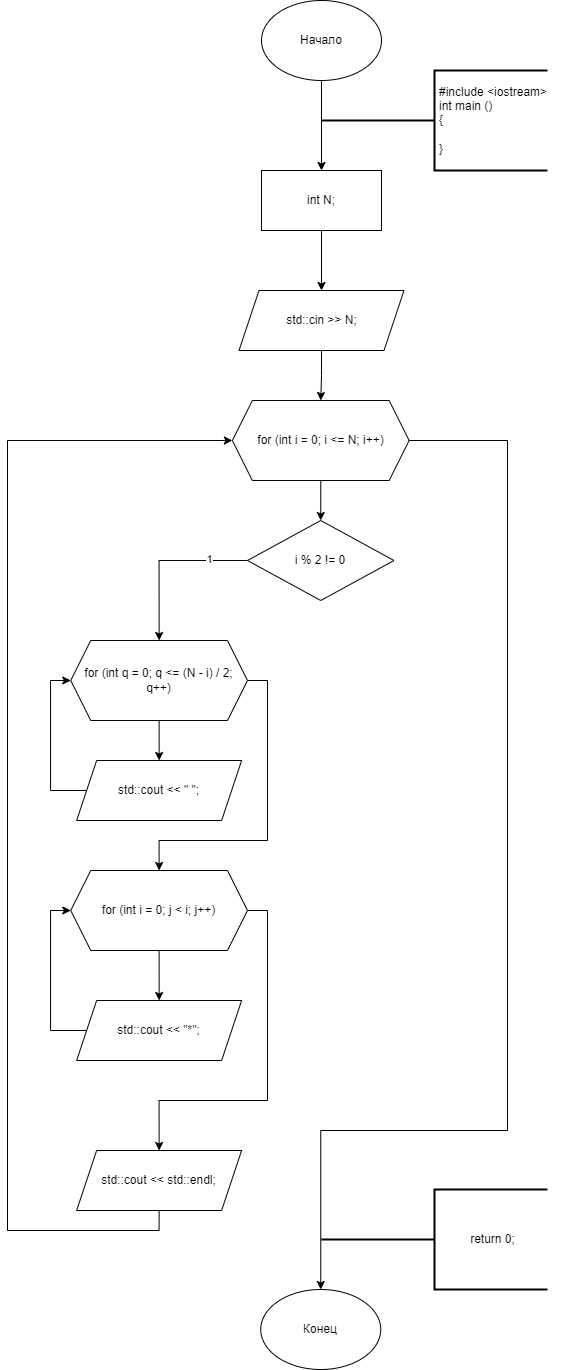
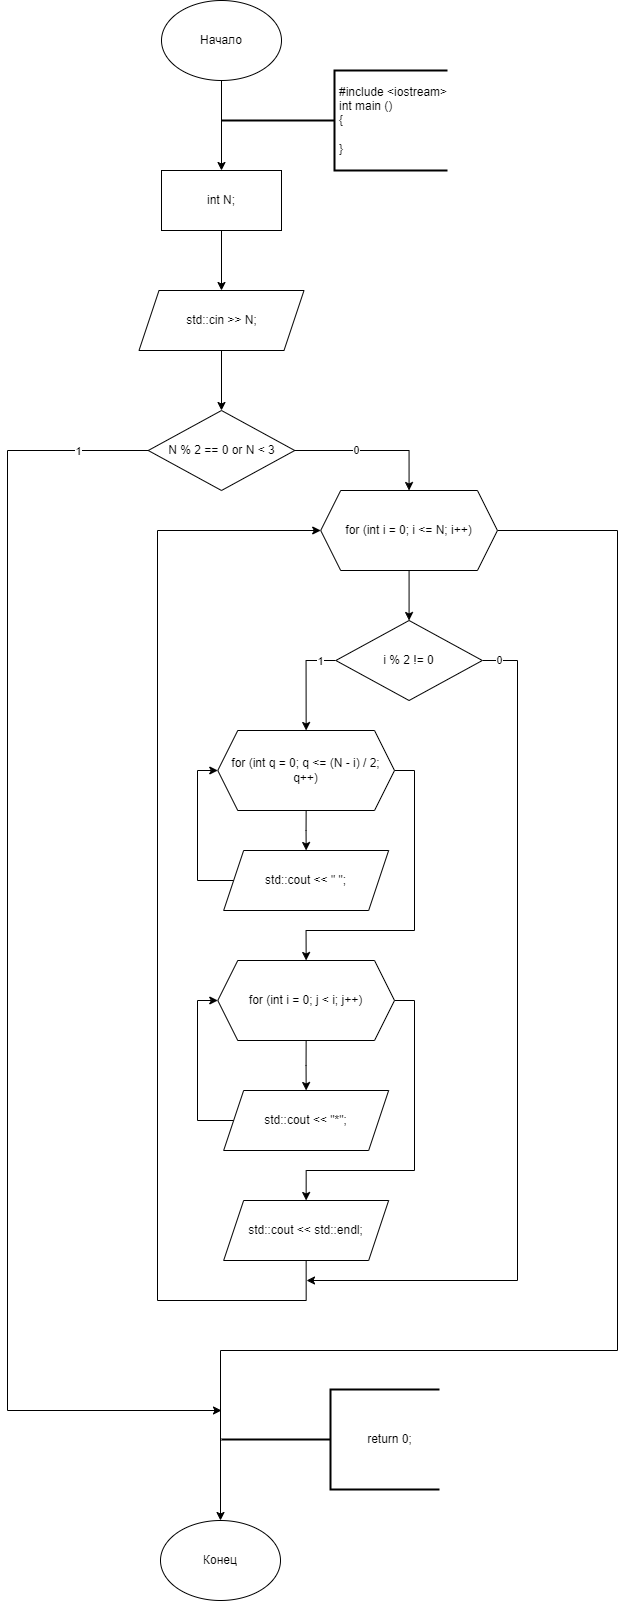
a

diff --git a/Labs_PSTU_2024/2.4/2.4.cpp b/Labs_PSTU_2024/2.4/2.4.cpp
@@ -1,20 +1,25 @@
 #include <iostream>
 int main()
-  {
-	  int N;
-	  std::cin >> N;
-	  for (int i = 0; i <= N; i++)
-	  {
-		  if (i % 2 != 0)
-		  {
-			  for (int q = 0; q <= (N - i) / 2; q++)
-			  {
-				  std::cout << " ";
-			  }
-			  for (int j = 0; j < i; j++)
-				  std::cout << "*";
-			  std::cout << std::endl;
-		  }
-	  }
-	  return 0;
-  }
+{
+	int N;
+	std::cin >> N;
+	if (N % 2 == 0 or N < 3)
+	{
+		std::cout << "error";
+		return 0;
+	}
+	for (int i = 0; i <= N; i++)
+	{
+		if (i % 2 != 0)
+		{
+			for (int q = 0; q <= (N - i) / 2; q++)
+			{
+				std::cout << " ";
+			}
+			for (int j = 0; j < i; j++)
+				std::cout << "*";
+			std::cout << std::endl;
+		}
+	}
+	return 0;
+}
